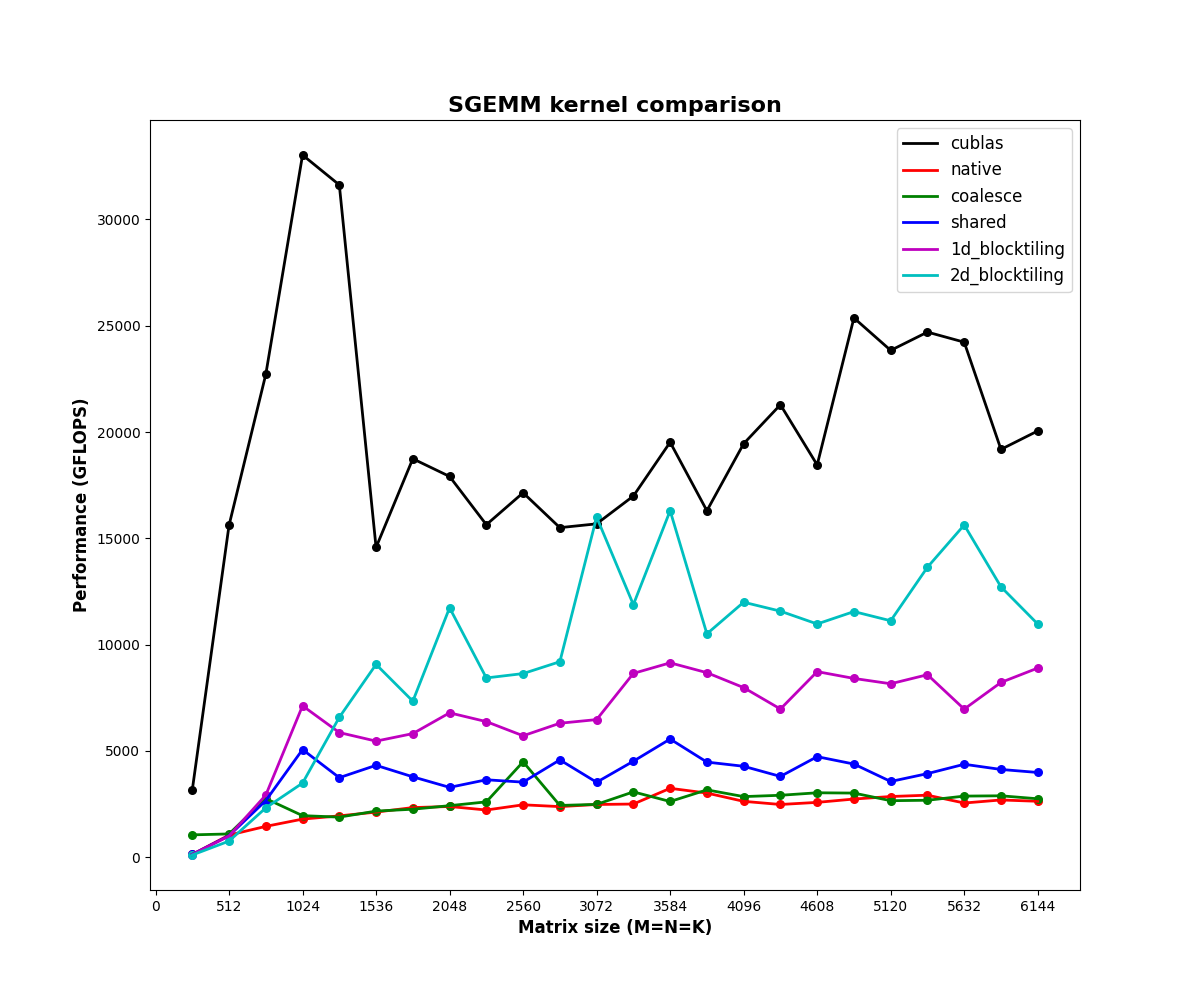
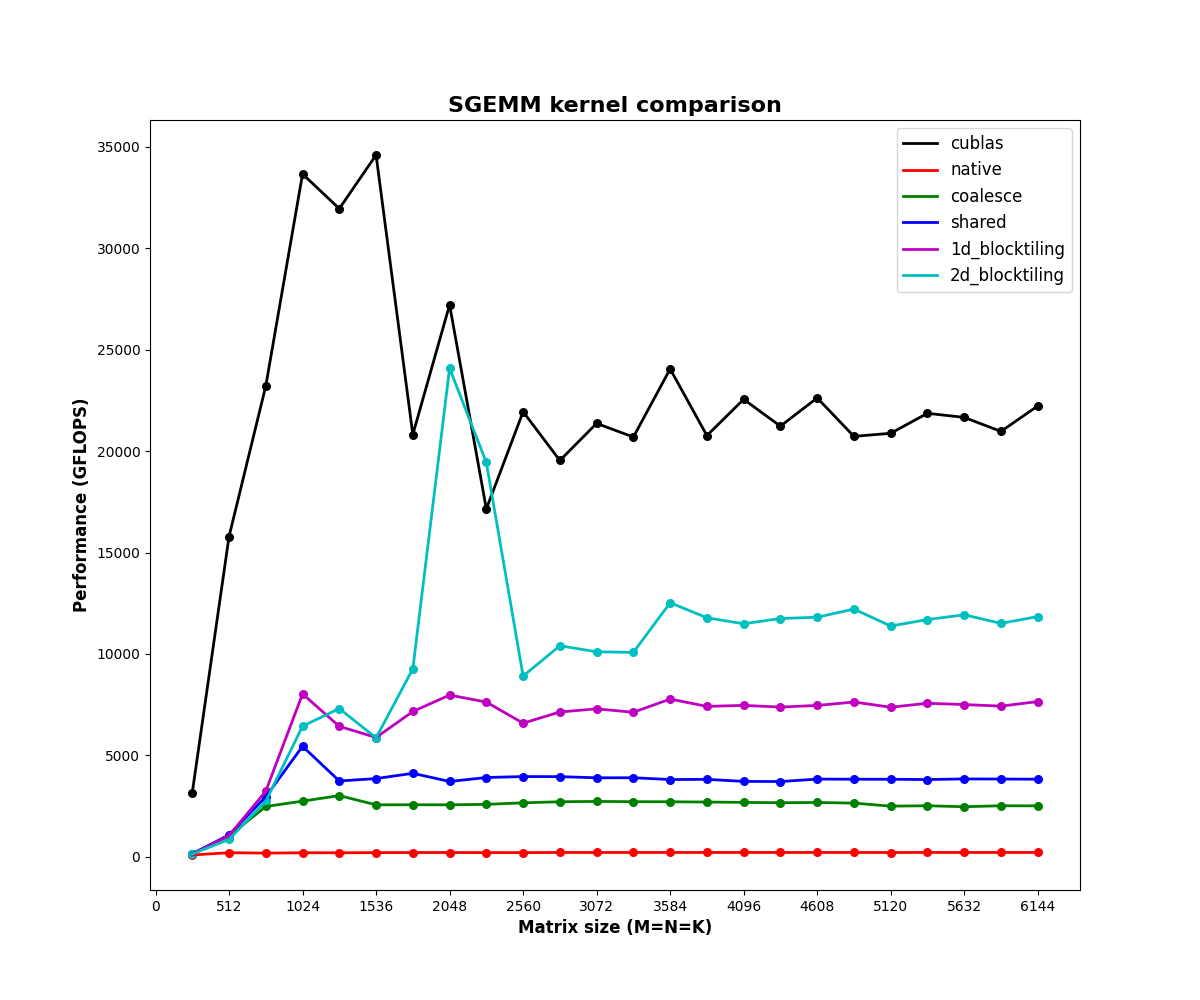
some new results

diff --git a/pytorch_extension/test_extension.py b/pytorch_extension/test_extension.py
@@ -71,7 +71,7 @@ def check_guards():
     return ok
 
 
-def benchmark(size=2048, iters=50):
+def benchmark(size=4096, iters=50):
     print("=" * 60)
     print(f"3) Speed vs torch.matmul  (M=N=K={size}, {iters} iters)")
     print("=" * 60)
@@ -80,7 +80,7 @@ def benchmark(size=2048, iters=50):
     flop = 2.0 * size * size * size
 
     def timed(fn):
-        for _ in range(3):  # warmup
+        for _ in range(5):  # warmup
             fn()
         torch.cuda.synchronize()
         start = torch.cuda.Event(enable_timing=True)
@@ -93,12 +93,29 @@ def benchmark(size=2048, iters=50):
         ms = start.elapsed_time(end) / iters
         return ms, flop / (ms * 1e6)  # ms, GFLOPS
 
+    # Is torch allowed to use TF32 (i.e. the tensor-core path) for fp32 matmul?
+    print(f"  torch.backends.cuda.matmul.allow_tf32 = "
+          f"{torch.backends.cuda.matmul.allow_tf32}")
+
     mine_ms, mine_gf = timed(lambda: ext.mat_mul(a, b))
-    torch_ms, torch_gf = timed(lambda: a @ b)
-    print(f"  nihar_mat_mul : {mine_ms:8.3f} ms   {mine_gf:9.1f} GFLOPS")
-    print(f"  torch.matmul  : {torch_ms:8.3f} ms   {torch_gf:9.1f} GFLOPS")
-    print(f"  --> torch is {mine_ms / torch_ms:.1f}x faster "
-          f"(expected; it uses cuBLAS + tensor cores)\n")
+
+    # Plain FP32 cuBLAS -- CUDA cores, NO tensor cores.
+    torch.backends.cuda.matmul.allow_tf32 = False
+    torch.set_float32_matmul_precision("highest")
+    fp32_ms, fp32_gf = timed(lambda: a @ b)
+
+    # TF32 -- the tensor-core path (lower-precision fp32 mantissa).
+    torch.backends.cuda.matmul.allow_tf32 = True
+    torch.set_float32_matmul_precision("high")
+    tf32_ms, tf32_gf = timed(lambda: a @ b)
+
+    print(f"  nihar_mat_mul (2D kernel)       : {mine_ms:8.3f} ms   {mine_gf:10.1f} GFLOPS")
+    print(f"  torch.matmul  FP32 (no TF32)    : {fp32_ms:8.3f} ms   {fp32_gf:10.1f} GFLOPS")
+    print(f"  torch.matmul  TF32 (tensor core): {tf32_ms:8.3f} ms   {tf32_gf:10.1f} GFLOPS")
+    print(f"  --> vs plain FP32 cuBLAS, torch is {mine_ms / fp32_ms:.1f}x faster.")
+    print(f"  --> with TF32 tensor cores, torch is {mine_ms / tf32_ms:.1f}x faster.")
+    print(f"  Note: torch does NOT use tensor cores for fp32 by default"
+          f" (allow_tf32=False); the TF32 line above is the tensor-core path.\n")
 
 
 if __name__ == "__main__":
